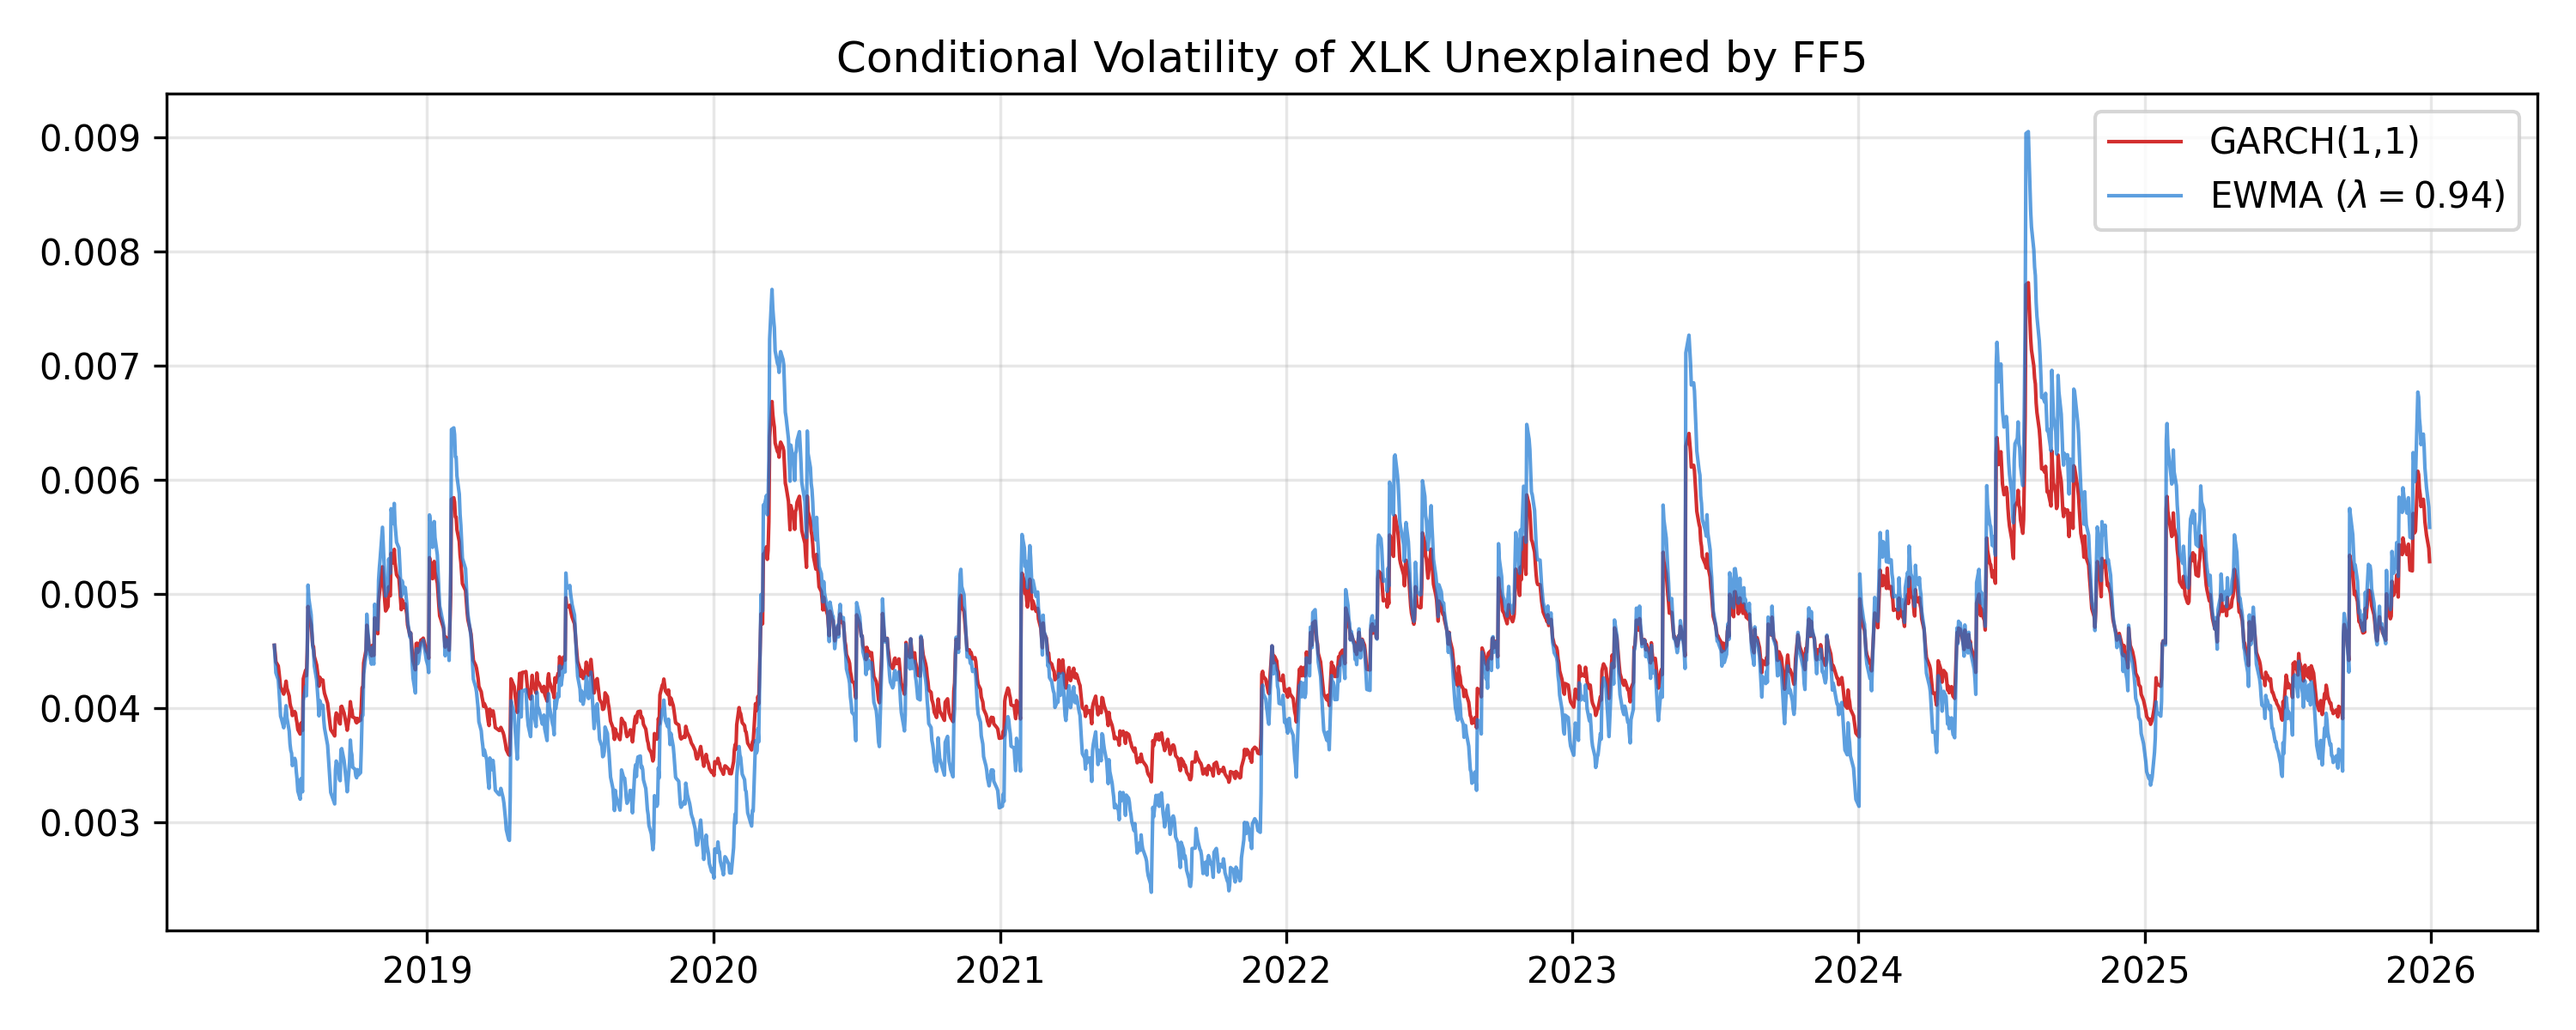
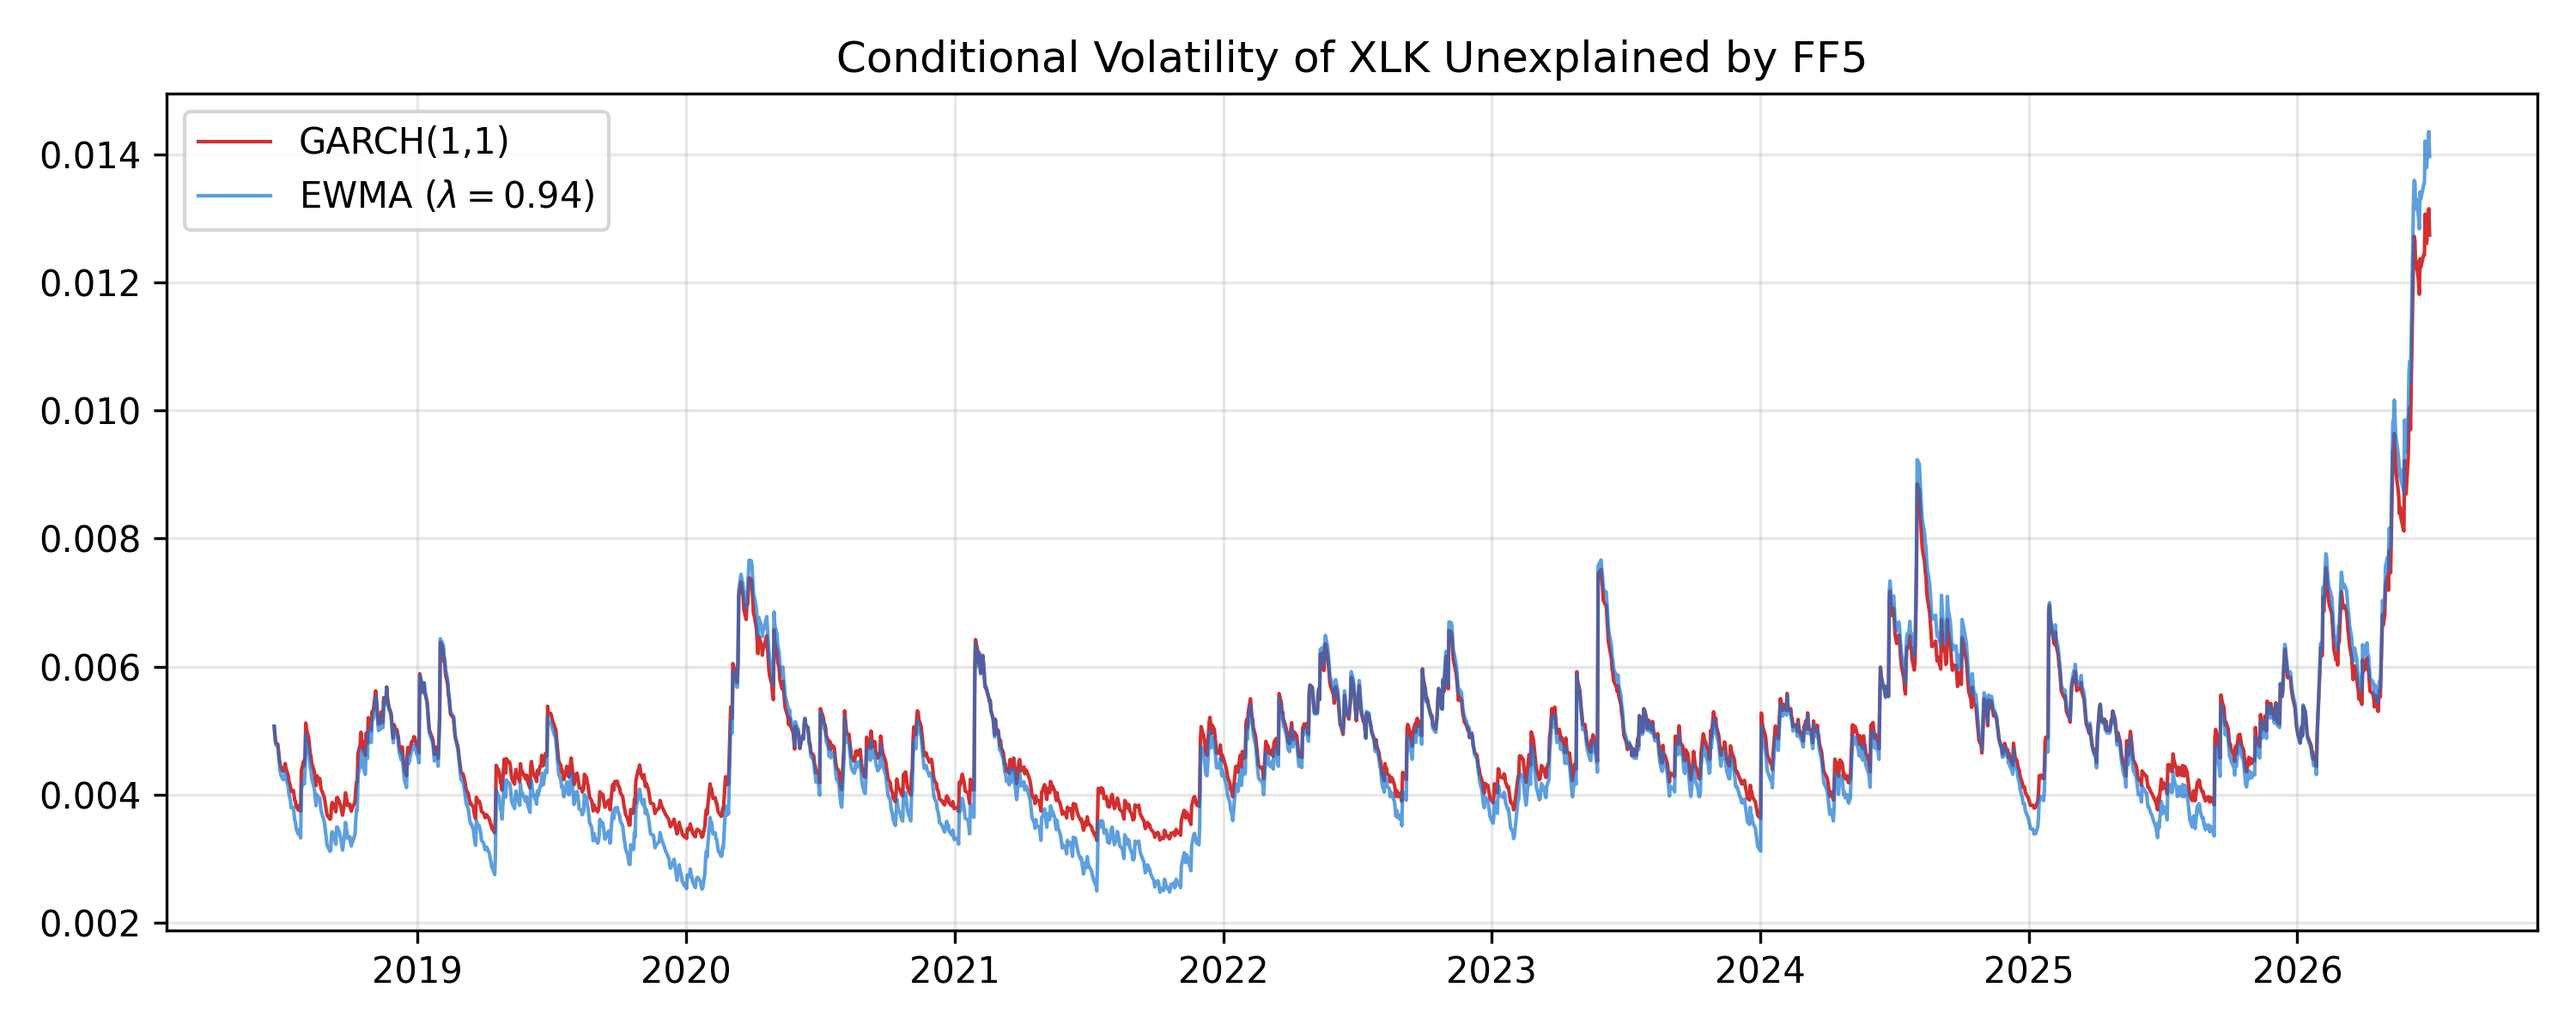
Refresh figures/metrics from latest gen_figures.py run; gitignore LaTeX build junk

diff --git a/gen_figures.py b/gen_figures.py
@@ -17,7 +17,7 @@ os.makedirs("paper/images", exist_ok=True)
 
 # CONFIG
 START_DATE = "2015-01-01"
-END_DATE = "2025-12-31"
+END_DATE = "2026-08-22"
 SECTOR_ETFS = ["XLK", "XLF", "XLV", "XLY", "XLP", "XLE", "XLI", "XLB", "XLU", "XLRE", "XLC"]
 LOOKBACK_MONTHS = 6
 TOP_N = 3
